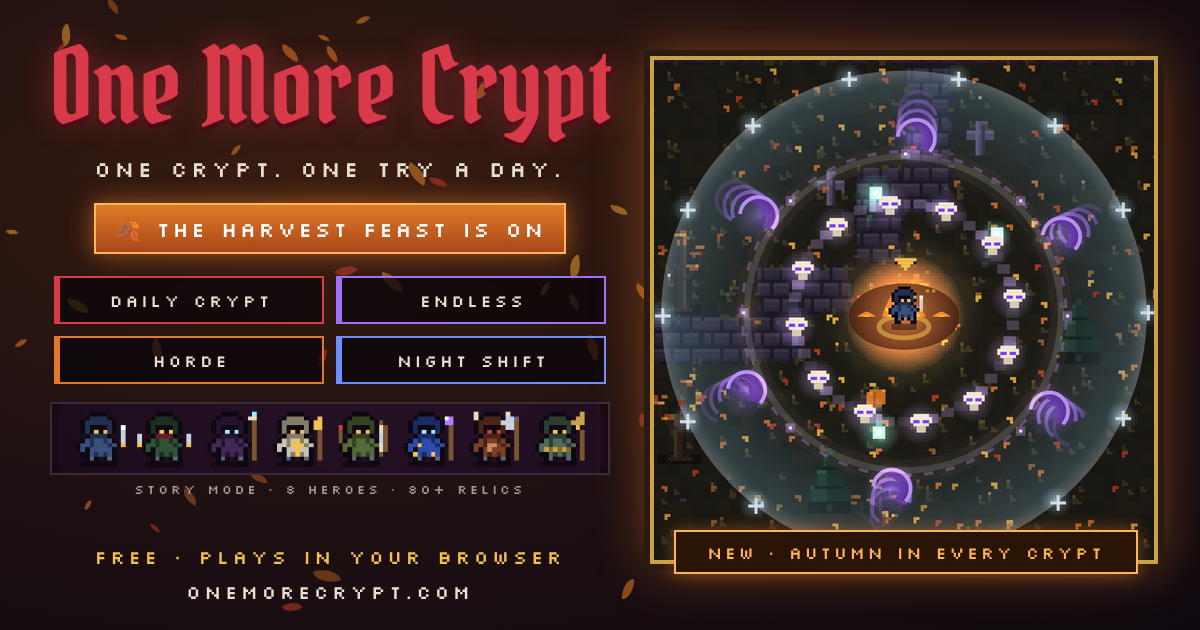
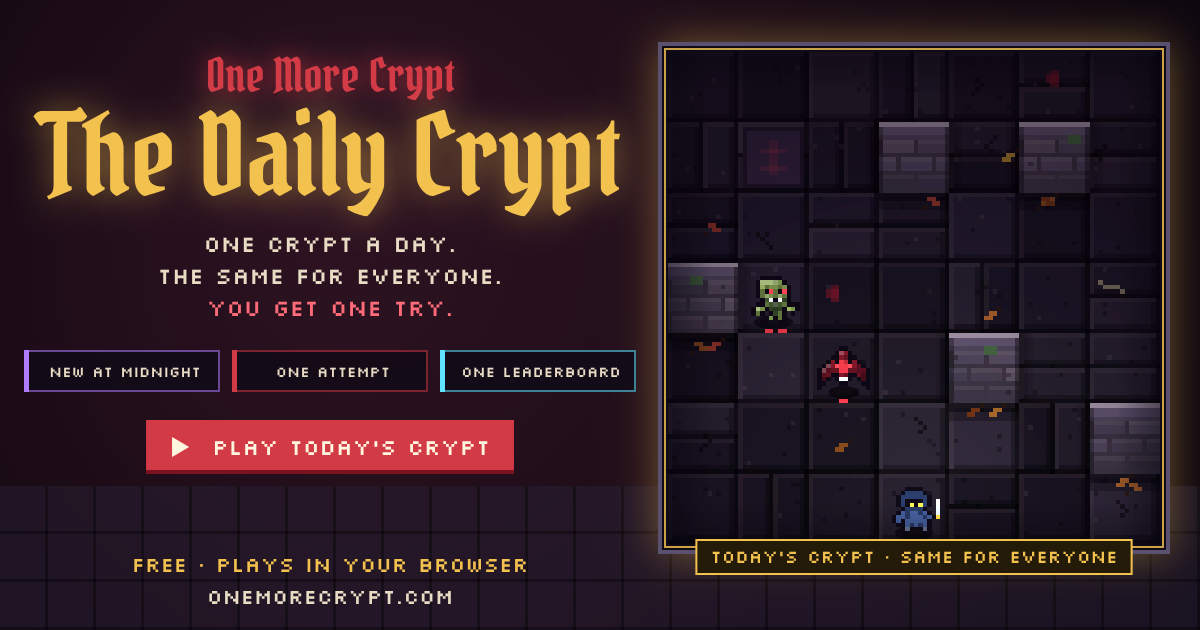
Link preview all about the Daily Crypt: new card, title and description
Claude-Session: https://claude.ai/code/session_01EZvy4DRrhZeutdw1H9MYoi

diff --git a/scripts/og.html b/scripts/og.html
@@ -11,21 +11,23 @@
   <body>
     <canvas id="c" width="1200" height="630"></canvas>
     <script type="module">
-      // Social preview card: the title, the modes, every hero, and a real board from the
-      // game (a Sunken Cloister floor in the plague mist). Regenerate with: node scripts/make-og.mjs
-      import { HEROES } from '/src/content.ts';
-      import { Game, fullPool } from '/src/game.ts';
-      import { heroSprite } from '/src/hero.ts';
+      // Social preview card, all about the Daily Crypt: what it is (one crypt a day, the same for
+      // everyone, one try) beside a real board from today's daily, drawn by the game's own
+      // renderer. Regenerate with: node scripts/make-og.mjs
+      import { Game } from '/src/game.ts';
       import { Renderer } from '/src/render.ts';
+      import { dailyNumber } from '/src/daily.ts';
+      import { hashSeed } from '/src/rng.ts';
+      import { runConfig } from '/src/meta.ts';
       await document.fonts.load('120px "Pirata One"');
       await document.fonts.load('28px Silkscreen');
       const c = document.getElementById('c');
       const ctx = c.getContext('2d');
       ctx.imageSmoothingEnabled = false;
 
-      // background: a deep violet glow, and faint stone along the bottom
-      const bg = ctx.createRadialGradient(330, 220, 40, 520, 315, 900);
-      bg.addColorStop(0, '#2a1328');
+      // background: a deep red glow behind the words, faint stone along the bottom
+      const bg = ctx.createRadialGradient(330, 230, 40, 520, 315, 900);
+      bg.addColorStop(0, '#2c1220');
       bg.addColorStop(1, '#07040b');
       ctx.fillStyle = bg;
       ctx.fillRect(0, 0, 1200, 630);
@@ -39,101 +41,94 @@
         }
       }
 
-      // a real board, drawn by the game's own renderer
+      // today's daily crypt, first floor, as everyone sees it
+      const n = dailyNumber();
       const board = document.createElement('canvas');
       const r = new Renderer(board, true);
       r.resize(560);
-      r.outfit = { look: 'bellvestment', head: 'bellhelm', aura: 'greatbell' };
-      const g = new Game('story', 20261030, 0, {
-        hero: 'bellringer',
-        pool: fullPool(),
-        mercy: true,
-        story: { start: 7, end: 12, gifts: 4, look: 'cloister', mist: 3, monks: true },
-      });
+      const g = new Game('daily', hashSeed('cryptfall-daily', n), n, runConfig('daily', n));
       r.setGame(g);
       r.consume(g.events.splice(0));
       for (let i = 0; i < 160; i++) r.frame(1 / 60);
       const B = 492;
       const bx = 668;
       const by = 52;
-      ctx.shadowColor = 'rgba(155, 227, 106, 0.45)';
+      ctx.shadowColor = 'rgba(242, 193, 78, 0.4)';
       ctx.shadowBlur = 40;
       ctx.fillStyle = '#100a16';
       ctx.fillRect(bx - 10, by - 10, B + 20, B + 20);
       ctx.shadowBlur = 0;
+      // (a touch brighter than in play, so it reads in a small preview)
+      ctx.filter = 'brightness(1.35) saturate(1.1)';
       ctx.drawImage(board, bx, by, B, B);
+      ctx.filter = 'none';
       ctx.strokeStyle = '#5a5070';
       ctx.lineWidth = 4;
       ctx.strokeRect(bx - 8, by - 8, B + 16, B + 16);
       ctx.strokeStyle = '#c9a24a';
       ctx.lineWidth = 2;
       ctx.strokeRect(bx - 3, by - 3, B + 6, B + 6);
-      // a tag on the board
       ctx.font = '18px Silkscreen';
       ctx.textAlign = 'center';
-      const tag = 'NEW · ACT II: THE PLAGUE ABBOT';
+      const tag = "TODAY'S CRYPT · SAME FOR EVERYONE";
       const tw = ctx.measureText(tag).width + 28;
-      ctx.fillStyle = '#16210f';
+      ctx.fillStyle = '#241a08';
       ctx.fillRect(bx + B / 2 - tw / 2, by + B - 4, tw, 34);
-      ctx.strokeStyle = '#9be36a';
+      ctx.strokeStyle = '#f2c14e';
       ctx.strokeRect(bx + B / 2 - tw / 2, by + B - 4, tw, 34);
-      ctx.fillStyle = '#9be36a';
+      ctx.fillStyle = '#f2c14e';
       ctx.fillText(tag, bx + B / 2, by + B + 19);
 
-      // the title
+      // the words
       const cx = 330;
-      ctx.font = '100px "Pirata One"';
+      ctx.font = '46px "Pirata One"';
       ctx.shadowColor = 'rgba(210,58,70,0.75)';
-      ctx.shadowBlur = 36;
+      ctx.shadowBlur = 24;
       ctx.fillStyle = '#d23a46';
-      ctx.fillText('One More Crypt', cx, 140);
-      ctx.shadowBlur = 0;
-      ctx.font = '25px Silkscreen';
-      ctx.fillStyle = '#e8dcc4';
-      ctx.fillText('ONE CRYPT. ONE TRY A DAY.', cx, 205);
+      ctx.fillText('One More Crypt', cx, 92);
+      ctx.font = '112px "Pirata One"';
+      ctx.shadowColor = 'rgba(242,193,78,0.55)';
+      ctx.shadowBlur = 34;
       ctx.fillStyle = '#f2c14e';
-      ctx.fillText('HOW DEEP CAN YOU GO?', cx, 243);
+      ctx.fillText('The Daily Crypt', cx, 196);
+      ctx.shadowBlur = 0;
+      ctx.font = '23px Silkscreen';
+      ctx.fillStyle = '#e8dcc4';
+      ctx.fillText('ONE CRYPT A DAY.', cx, 252);
+      ctx.fillText('THE SAME FOR EVERYONE.', cx, 284);
+      ctx.fillStyle = '#ff6b78';
+      ctx.fillText('YOU GET ONE TRY.', cx, 316);
 
-      // the modes, as chips
-      const modes = [
-        ['DAILY CRYPT', '#d23a46'],
-        ['ENDLESS', '#b07cff'],
-        ['HORDE', '#ff8a2a'],
-        ['STORY MODE', '#5fe3ff'],
-      ];
-      ctx.font = '19px Silkscreen';
-      const w = 268;
-      modes.forEach(([name, col], i) => {
-        const x = cx - w - 8 + (i % 2) * (w + 16);
-        const y = 278 + Math.floor(i / 2) * 58;
+      // three facts, as chips
+      const facts = [['NEW AT MIDNIGHT', '#b07cff'], ['ONE ATTEMPT', '#d23a46'], ['ONE LEADERBOARD', '#5fe3ff']];
+      ctx.font = '15px Silkscreen';
+      const w = 196;
+      facts.forEach(([name, col], i) => {
+        const x = cx - (w * 3 + 24) / 2 + i * (w + 12);
+        const y = 350;
         ctx.fillStyle = 'rgba(16, 10, 22, 0.85)';
-        ctx.fillRect(x, y, w, 46);
+        ctx.fillRect(x, y, w, 42);
         ctx.fillStyle = col;
-        ctx.fillRect(x, y, 6, 46);
+        ctx.fillRect(x, y, 5, 42);
         ctx.strokeStyle = col;
         ctx.globalAlpha = 0.55;
         ctx.lineWidth = 2;
-        ctx.strokeRect(x + 1, y + 1, w - 2, 44);
+        ctx.strokeRect(x + 1, y + 1, w - 2, 40);
         ctx.globalAlpha = 1;
         ctx.fillStyle = '#e8dcc4';
-        ctx.fillText(name, x + w / 2 + 3, y + 30);
+        ctx.fillText(name, x + w / 2 + 3, y + 27);
       });
 
-      // every hero, side by side
-      const n = HEROES.length;
-      const size = 56;
-      const gap = 12;
-      const row = n * size + (n - 1) * gap;
-      HEROES.forEach((h, i) => {
-        const x = cx - row / 2 + i * (size + gap);
-        const y = 418;
-        ctx.fillStyle = 'rgba(0,0,0,0.35)';
-        ctx.fillRect(x + 8, y + size - 4, size - 16, 6);
-        ctx.drawImage(heroSprite(h.id, {}, []).normal, x, y, size, size);
-      });
-      ctx.font = '15px Silkscreen';
-      ctx.fillStyle = '#9a8bab';
-      ctx.fillText(`${n} HEROES · 80+ RELICS · DEEP ZONES · DEATH WALKS`, cx, 504);
+      // the call
+      ctx.font = '22px Silkscreen';
+      const call = "▶  PLAY TODAY'S CRYPT";
+      const cw = ctx.measureText(call).width + 48;
+      ctx.fillStyle = '#d23a46';
+      ctx.fillRect(cx - cw / 2, 420, cw, 54);
+      ctx.fillStyle = '#7a1220';
+      ctx.fillRect(cx - cw / 2, 470, cw, 4);
+      ctx.fillStyle = '#fff6e0';
+      ctx.fillText(call, cx, 455);
 
       // footer
       ctx.font = '21px Silkscreen';

diff --git a/index.html b/index.html
@@ -4,18 +4,18 @@
     <meta charset="UTF-8" />
     <meta name="viewport" content="width=device-width, initial-scale=1, viewport-fit=cover, user-scalable=no" />
     <meta name="theme-color" content="#07040b" />
-    <title>One More Crypt · A daily roguelite descent</title>
-    <meta name="description" content="One crypt. One try a day. Descend floor by floor, stack cursed relics into broken builds, and see how deep you can go." />
+    <title>One More Crypt · The Daily Crypt: one crypt a day, one try</title>
+    <meta name="description" content="The Daily Crypt: one crypt a day, the same for everyone in the world. You get one try. Go floor by floor, pick cursed relics and see where you land on today's board. Free, plays in your browser." />
 
     <meta property="og:type" content="website" />
-    <meta property="og:title" content="One More Crypt · How deep can you go?" />
-    <meta property="og:description" content="A dark-fantasy roguelite: one crypt a day for everyone, plus Endless, Horde, the Night Shift and a story campaign. Free, and plays in your browser in seconds." />
-    <meta property="og:image" content="__SITE_URL__og.png?v=3" />
+    <meta property="og:title" content="The Daily Crypt · One More Crypt" />
+    <meta property="og:description" content="One crypt a day, the same for everyone. You get one try. How deep can you go? Free, and plays in your browser in seconds." />
+    <meta property="og:image" content="__SITE_URL__og.png?v=4" />
     <meta property="og:url" content="__SITE_URL__" />
     <meta name="twitter:card" content="summary_large_image" />
-    <meta name="twitter:title" content="One More Crypt · How deep can you go?" />
-    <meta name="twitter:description" content="A dark-fantasy roguelite: one crypt a day for everyone, plus Endless, Horde, the Night Shift and a story campaign. Free in your browser." />
-    <meta name="twitter:image" content="__SITE_URL__og.png?v=3" />
+    <meta name="twitter:title" content="The Daily Crypt · One More Crypt" />
+    <meta name="twitter:description" content="One crypt a day, the same for everyone. You get one try. How deep can you go? Free in your browser." />
+    <meta name="twitter:image" content="__SITE_URL__og.png?v=4" />
 
     <link rel="canonical" href="__SITE_URL__" />
     <!-- for search engines: what this page is (a free game that plays in the browser) -->
